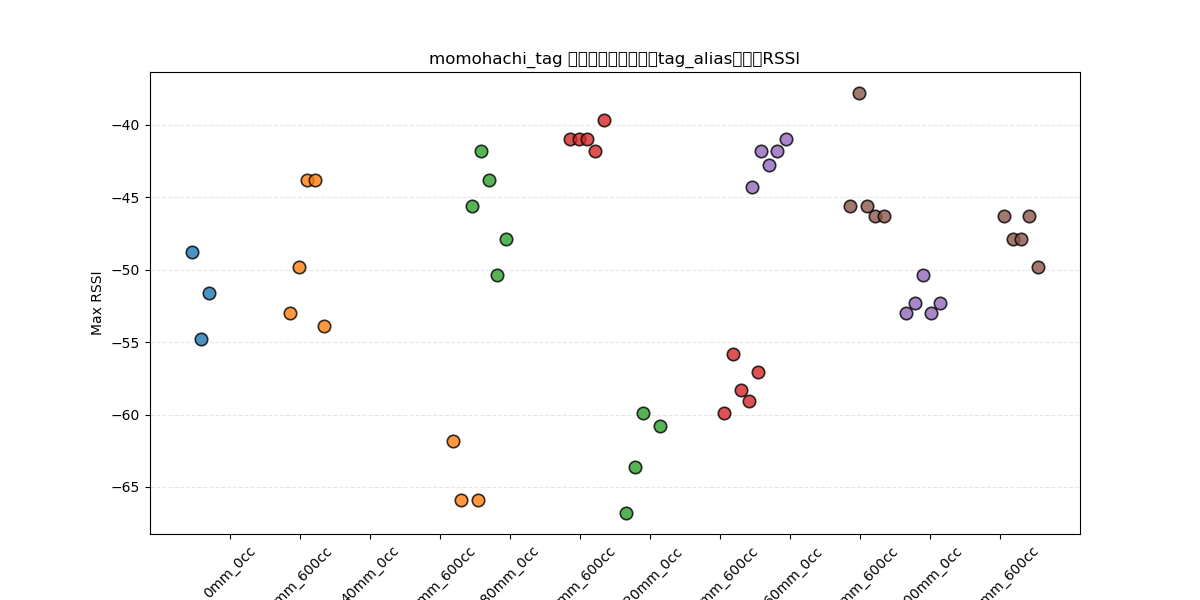
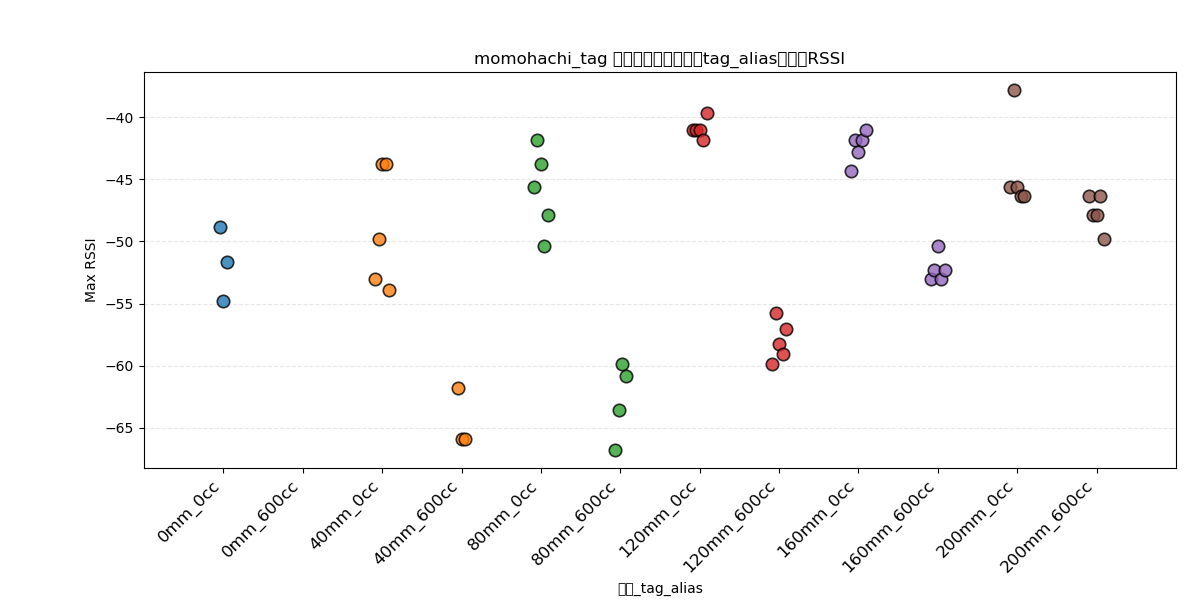
プロット位置調整中

diff --git a/plot_max_rssi_per_tag.py b/plot_max_rssi_per_tag.py
@@ -106,7 +106,13 @@ marker_list = ['o','s','^','D','v','*','x','+','1','2','3','4','8','p','h']
 
 
 # --- グラフ描画: 各条件ごとに最大5測定分を横並びで表示 ---
+csv_names = result_df["csv"].unique()
 plt.figure(figsize=(max(12, len(x_labels)*0.8), 6))
+
+# x軸の間隔とオフセット幅を明示的に分ける
+x_gap = 2  # x軸の条件間隔
+offset_width = 0.09  # 横並びの最大幅（±0.09）
+x_pos_list = [j * x_gap for j in range(len(x_labels))]
 
 csv_names = result_df["csv"].unique()
 for j, label in enumerate(x_labels):
@@ -120,20 +126,33 @@ for j, label in enumerate(x_labels):
             y_list.append(None)
     # 横並びオフセット: 5測定なら[-0.24, -0.12, 0, 0.12, 0.24]
     n = len(y_list)
-    offsets = [(i - (n-1)/2)*0.12 for i in range(n)]
+    # Noneでない値だけを抽出
+    y_valid = [y for y in y_list if y is not None]
+    n_valid = len(y_valid)
+    # 実際に値がある測定の中央がx軸の中心に来るようにオフセット計算
+    if n_valid > 1:
+        offsets_valid = [offset_width * (i - (n_valid-1)/2) for i in range(n_valid)]
+    else:
+        offsets_valid = [0]
     tag = label.split('_')[0]
-    for offset, y in zip(offsets, y_list):
+    idx_valid = 0
+    for i, y in enumerate(y_list):
         if y is not None:
-            plt.scatter(j + offset, y, color=tag_color_map[tag], marker='o', s=80, edgecolors='black', linewidth=1.2, alpha=0.8, zorder=3)
+            plt.scatter(x_pos_list[j] + offsets_valid[idx_valid], y, color=tag_color_map[tag], marker='o', s=80, edgecolors='black', linewidth=1.2, alpha=0.8, zorder=3)
+            idx_valid += 1
     # 通信不可表示
     if all(v is None for v in y_list):
         plt.text(j, 0, '通信不可', color='red', ha='center', va='bottom', fontsize=10, rotation=90)
 
-plt.xticks(range(len(x_labels)), x_labels, rotation=45)
+offset_width = 0.09  # 横並びの最大幅（±0.09）
+x_pos_list = [j * x_gap for j in range(len(x_labels))]
+plt.xticks(x_pos_list, x_labels, rotation=45, ha='right', fontsize=12)
 plt.xlabel('条件_tag_alias')
 plt.ylabel('Max RSSI')
 plt.title(f'{subject} 各測定ごとの条件・tag_alias別最大RSSI')
 plt.grid(axis='y', alpha=0.3, linestyle='--')
+plt.xlim(-x_gap, x_pos_list[-1] + x_gap)
+plt.subplots_adjust(left=0.12, right=0.98, bottom=0.22)
 plt.tight_layout()
 output_png = f'max_rssi_plot_{subject}.png'
 plt.savefig(output_png)
